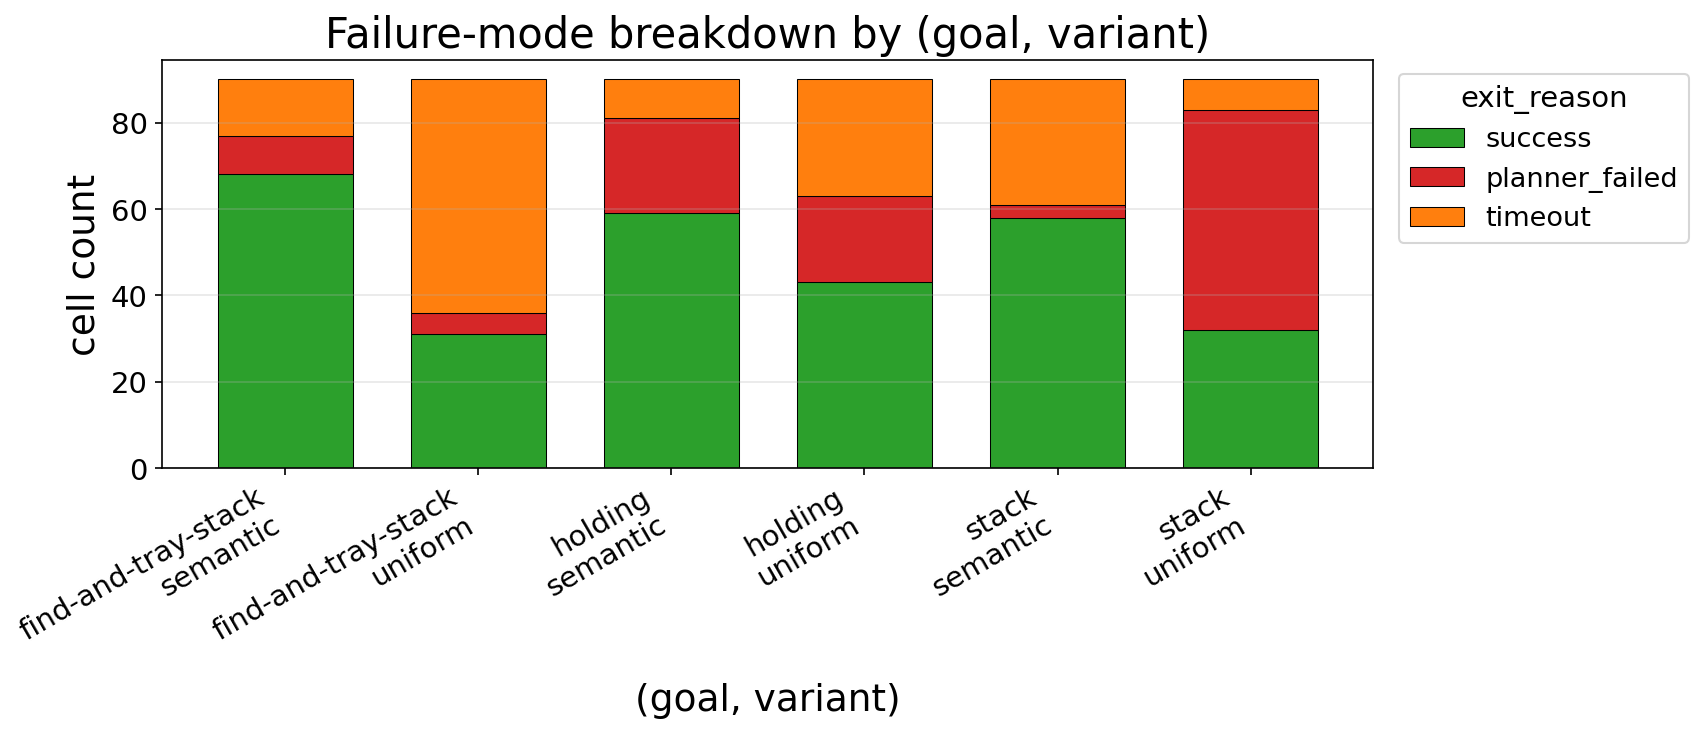
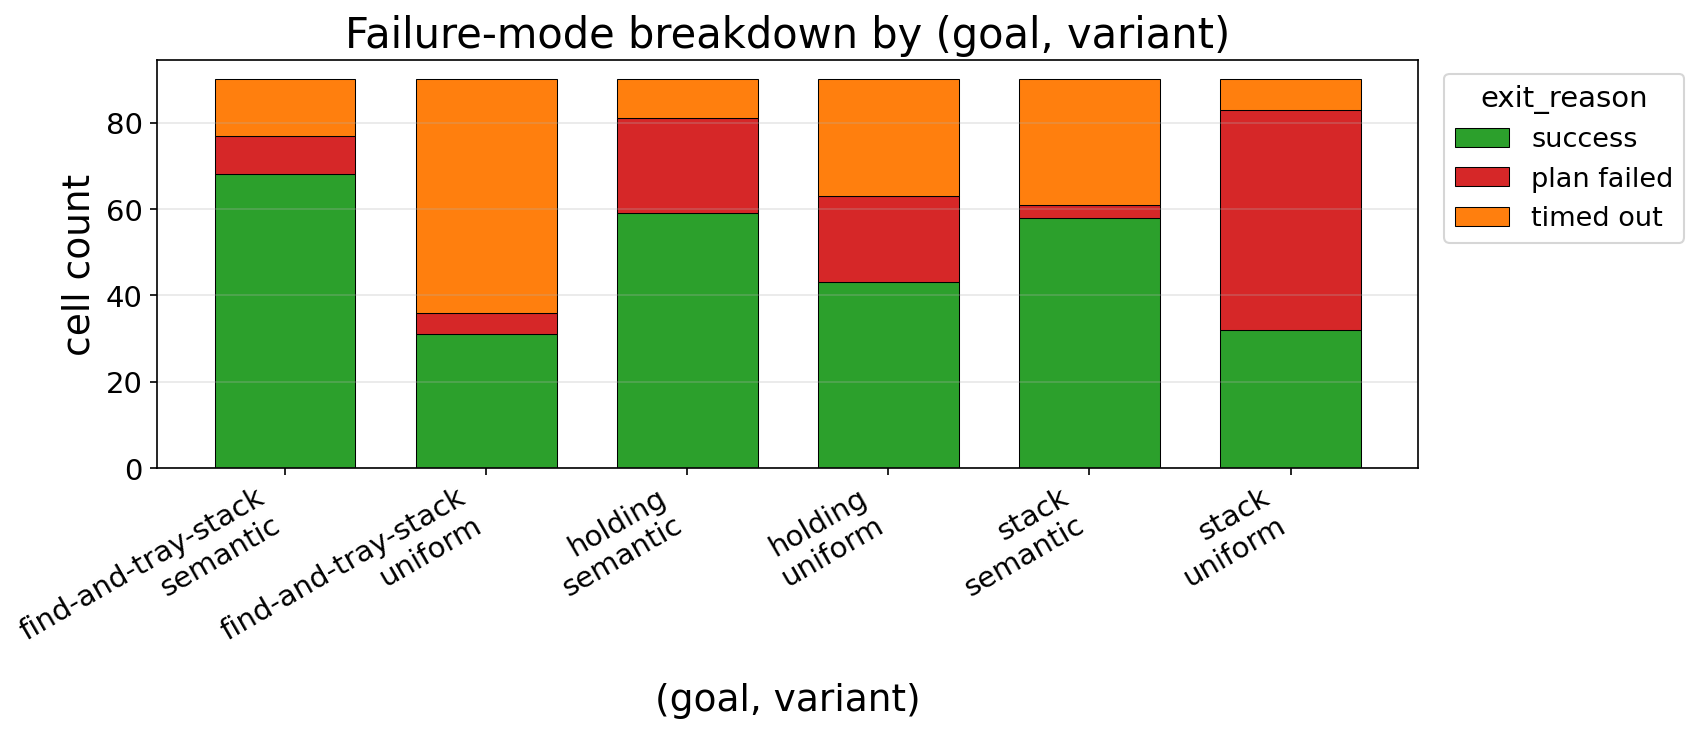
thesis #282: rename failure categories to plain words (success / plan failed / timed out); drop raw exit-reason identifiers + a missed replan-cap mention (per author)

diff --git a/thesis/chapters/results.tex b/thesis/chapters/results.tex
@@ -91,7 +91,7 @@ For each cell we record:
     \item \textbf{Planning time}: total wall-clock time spent inside PDDLStream calls, summed across replans. Wall-clock per cell is effectively equal to planning time; execution, perception, and motion overhead are negligible at the scales evaluated.
     \item \textbf{Replan count}: how many times the planner was re-invoked in the sense-plan-act loop before terminating.
     \item \textbf{Representation size}: the Boxel set decomposed into \texttt{OBJECT}, \texttt{SHADOW}, and \texttt{FREE\_SPACE} cells, and the number of grounded facts in PDDLStream's initial state. These two capture the per-cell cost of the partitioning strategy independently of planner choice.
-    \item \textbf{Failure mode}: when a cell does not succeed, an exit reason among \texttt{planner\_failed}, \texttt{timeout}, \texttt{physics\_mismatch}, \texttt{drop\_failed} (the gripper cannot release a non-target object; the episode exits after three failed drop events), and \texttt{all\_searched}.
+    \item \textbf{Failure mode}: when a cell does not succeed, the reason it stopped --- either \emph{timed out} (the planning budget was exhausted) or \emph{plan failed} (no usable plan reached the goal).
 \end{itemize}
 Aggregate means in this chapter are taken either over all $n_\text{cells}$ or, for quantities that are only defined on cells that produced a snapshot (notably mean initial-state facts and mean replan count), over the subset of cells with non-null values. These two denominators differ by about 6\,\% of cells---those that timed out early, before any planner state was recorded.
 
@@ -230,12 +230,12 @@ The partition shrinks as the leaf is coarsened above auto --- the free-space Box
 \subsection{Failure Modes}
 \label{subsec:failure-modes}
 
-\Cref{fig:failure-modes} stacks the exit reasons across the 6 $(\text{goal}, \text{variant})$ cells. With the per-episode replan cap removed, \texttt{timeout} is the dominant failure mode overall, ahead of \texttt{planner\_failed}. The mode varies by goal. On find-and-tray-stack both variants fail mainly by \texttt{timeout}, \texttt{uniform} most of all, consistent with its lower success rate rather than an outright planner failure. On holding \texttt{semantic} fails mostly via \texttt{planner\_failed}, while \texttt{uniform} splits between \texttt{timeout} and \texttt{planner\_failed}. On stack \texttt{semantic} fails almost entirely by \texttt{timeout}, whereas \texttt{uniform} fails mainly by \texttt{planner\_failed}.
+\Cref{fig:failure-modes} stacks the exit reasons across the 6 $(\text{goal}, \text{variant})$ cells. The more common failure overall is \emph{timed out}, ahead of \emph{plan failed}, and the balance varies by goal. On find-and-tray-stack both variants mostly time out, \texttt{uniform} most of all, consistent with its lower success rate rather than an inability to plan. On holding \texttt{semantic} mostly fails to produce a usable plan, while \texttt{uniform} splits between timing out and plan failure. On stack \texttt{semantic} almost always times out, whereas \texttt{uniform} mostly fails to produce a usable plan.
 
 \begin{figure}[H]
     \centering
     \includegraphics[width=\textwidth]{failure_modes_sem_uni.png}
-    \caption{Stacked exit-reason breakdown per $(\text{goal}, \text{variant})$ for the \texttt{semantic} and \texttt{uniform} variants (90 cells each). \texttt{planner\_failed} collects the non-\texttt{timeout} failures --- the planner found no usable plan, or a plan was found but execution or continued search never reached the goal. \texttt{timeout} is the largest failure mode overall: it dominates on find-and-tray-stack and \texttt{stack} \texttt{semantic}, while \texttt{planner\_failed} dominates on \texttt{stack} \texttt{uniform} and \texttt{holding} \texttt{semantic}.}
+    \caption{Stacked exit-reason breakdown per $(\text{goal}, \text{variant})$ for the \texttt{semantic} and \texttt{uniform} variants (90 cells each). Failures are either \emph{timed out} (the planning budget ran out) or \emph{plan failed} (no usable plan reached the goal: the planner found none, or a plan was found but execution or continued search did not reach the goal). \emph{timed out} is the largest failure mode overall --- it dominates on find-and-tray-stack and \texttt{stack} \texttt{semantic}, while \emph{plan failed} dominates on \texttt{stack} \texttt{uniform} and \texttt{holding} \texttt{semantic}.}
     \label{fig:failure-modes}
 \end{figure}
 

diff --git a/tools/regen_failure_modes_sem_uni.py b/tools/regen_failure_modes_sem_uni.py
@@ -1,11 +1,13 @@
 """Regenerate the failure-modes figure with ONLY the semantic and uniform
-variants (drops semantic+mbs0.05), for thesis audit #282 / author request.
+variants (drops semantic+mbs0.05) AND reader-friendly category labels, for
+thesis audit #282 / author request.
 
-The standard eval_plotter run emits a 3-variant failure_modes.png
-(semantic, semantic+mbs0.05, uniform). This one-off reuses the same
-grouping/plotting code on a variant-filtered row set so the thesis can
-show the cleaner two-variant comparison without altering the 3-variant
-figure that the rest of the pipeline produces.
+The standard eval_plotter run emits a 3-variant failure_modes.png whose bands
+are the raw exit-reason identifiers (success / planner_failed / timeout). This
+one-off reuses the same grouping/plotting code on a variant-filtered row set,
+then relabels the bands to plain language (success / plan failed / timed out)
+so the thesis figure needs no internal jargon. The 3-variant figure that the
+rest of the pipeline produces is left untouched.
 
 Run via WSL with the project venv + PYTHONPATH (see audit #282):
   wsl bash -lc 'cd /mnt/c/Users/HaniAlassiriAlhabbou/git/Semantic_Boxels && \
@@ -20,10 +22,21 @@ import eval_plotter as ep
 CSV = Path("eval_results/sweep_full_2026-05-28/aggregated.csv")
 OUT = CSV.parent / "failure_modes_sem_uni.png"
 
+# Plain-language band labels (carry the same colours as the raw identifiers).
+RENAME = {"planner_failed": "plan failed", "timeout": "timed out"}
+for raw, friendly in RENAME.items():
+    ep.EXIT_REASON_COLOUR[friendly] = ep.EXIT_REASON_COLOUR[raw]
+
 rows = ep.load_rows(CSV)
 rows = [r for r in rows if r.get("_variant") in ("semantic", "uniform")]
+grouped = ep.group_failure_modes(rows)
+relabeled = {
+    key: {RENAME.get(reason, reason): n for reason, n in counts.items()}
+    for key, counts in grouped.items()
+}
+
 ep.plot_failure_modes(
-    ep.group_failure_modes(rows),
+    relabeled,
     "Failure-mode breakdown by (goal, variant)",
     OUT,
 )

diff --git a/thesis_audit.md b/thesis_audit.md
@@ -1474,6 +1474,11 @@ APPLIED (2026-06-04, /workflow; one commit per unit):
       kept to match the figure legend; optional figure-legend rename offered to the author.
   [x] subsec:setup (Scenes and seeds): 100 -> 30 random scenes; headline 2700 -> 810 cells; decoupled the
       resolution-arm count (PENDING earlier 100-seed sweep, reported in subsec:resolution) instead of a mixed ~4500.
+  [x] AUTHOR: rename failure bands to plain words (success / plan failed / timed out) -- regenerated
+      failure_modes_sem_uni.png (relabeled via tools/regen_failure_modes_sem_uni.py; colours carried over) +
+      rewrote sec:metrics Failure-mode def, subsec:failure-modes paragraph + caption to the two plain
+      categories; dropped ALL raw identifiers (planner_failed/timeout/physics_mismatch/all_searched/drop_failed).
+      Legend title still "exit_reason" -- offered to rename to "outcome".
   FOUND BEYOND CATALOG (fix each in its own section):
     - [done] results.tex sec:metrics: dropped "without exceeding the per-episode replan limit" from Success def.
     - [done] results.tex sec:metrics: dropped replan_limit + no_summary from the failure-mode list (cannot occur).
